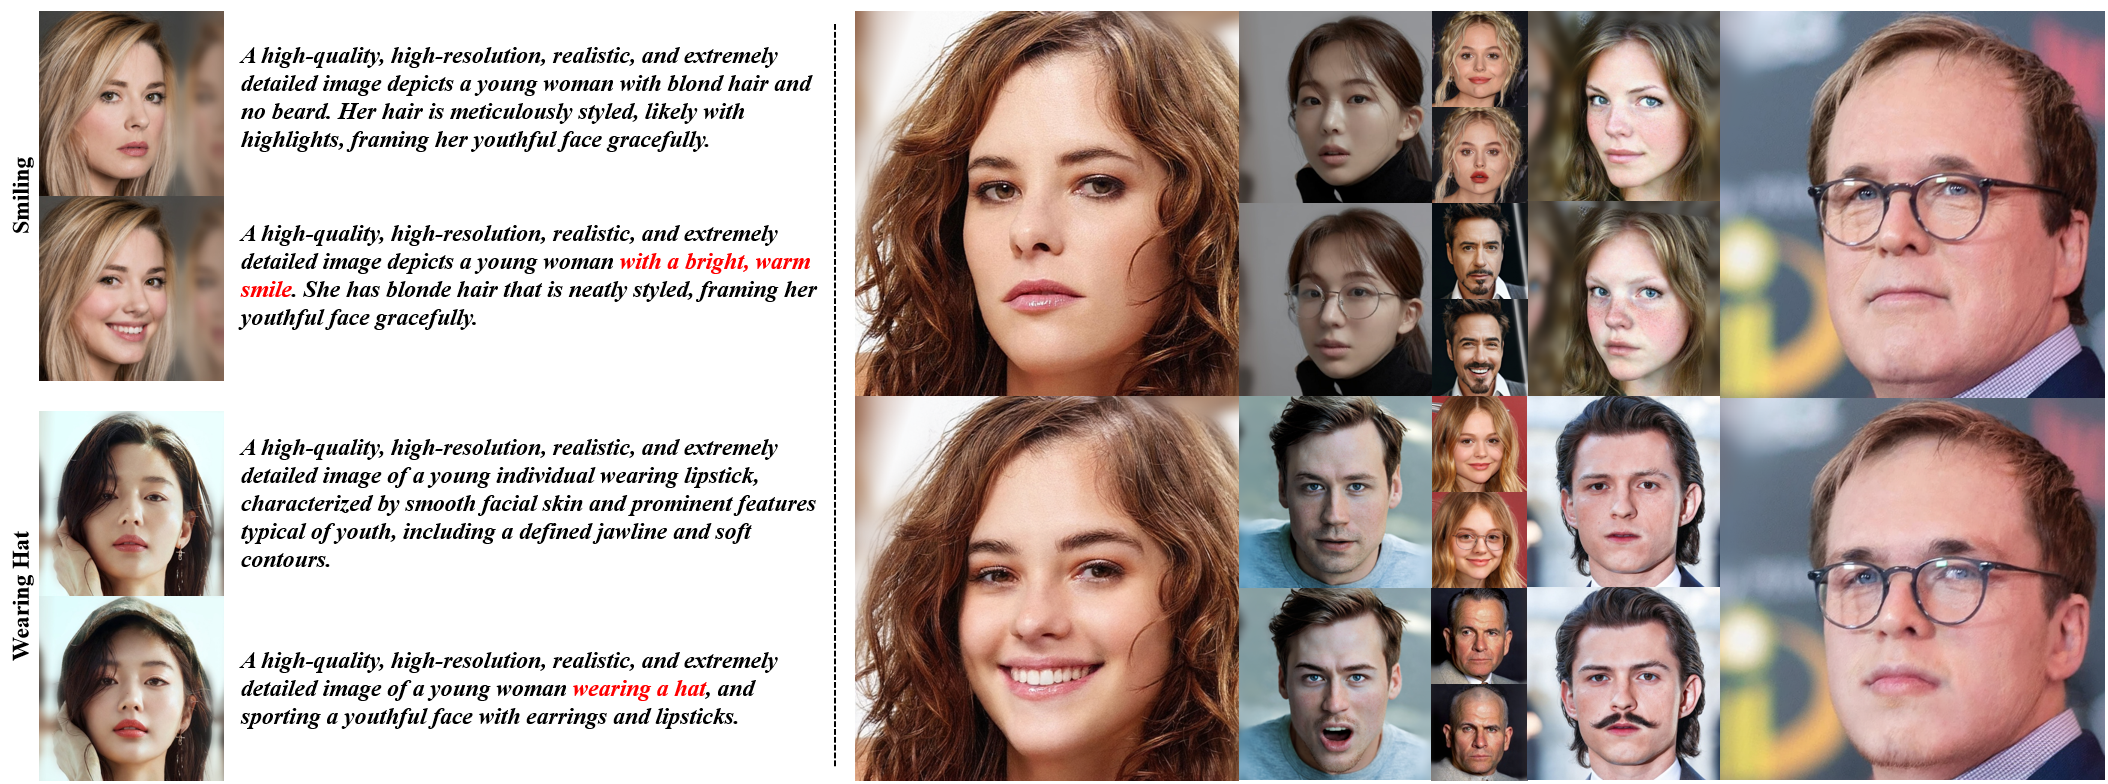
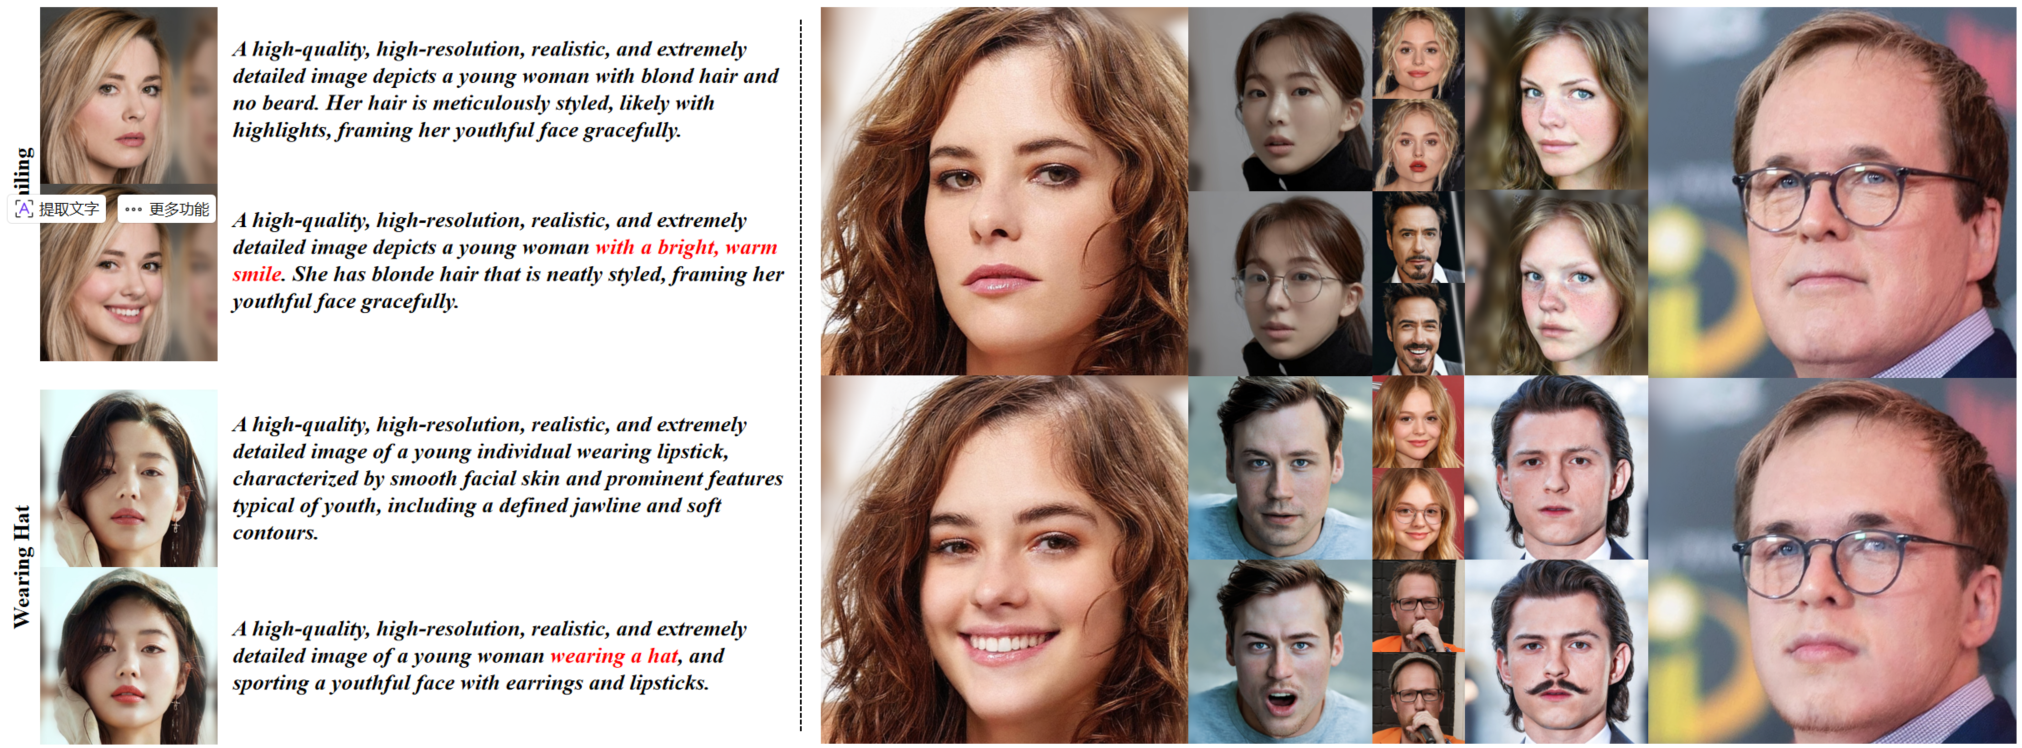
z

diff --git a/README.md b/README.md
@@ -36,7 +36,7 @@ Ya Zhang<sup>1</sup>&nbsp;&nbsp;&nbsp;&nbsp;Xiaoyun Zhang<sup>1,†</sup>&nbsp;&
   <img src="static/visual.png" alt="" width="80%">
 </div>
 
-**A<sup>2</sup>BFR** enables customizable restoration via attribute prompts. Each column presents diverse outputs generated from the same low-quality input under different facial attribute conditions (e.g., *smiling*, *eyeglasses*), demonstrating controllable, user-directed face restoration.
+**A<sup>2</sup>BFR** enables customizable restoration via attribute prompts. Each column presents diverse outputs generated from the same low-quality input under different facial attribute conditions (e.g., *smiling*, *eyeglasses*), demonstrating controllable, user-directed face restoration. **A<sup>2</sup>BFR** exhibits strong generalization beyond the 12 attribute categories defined in AttrFace-90K. It can respond to out-of-domain attribute prompts (e.g., *Beard*, *Lipstick*) and produce the corresponding edits, demonstrating robust cross-attribute generalization.
 
 ### Comparison with BFR Methods
 
